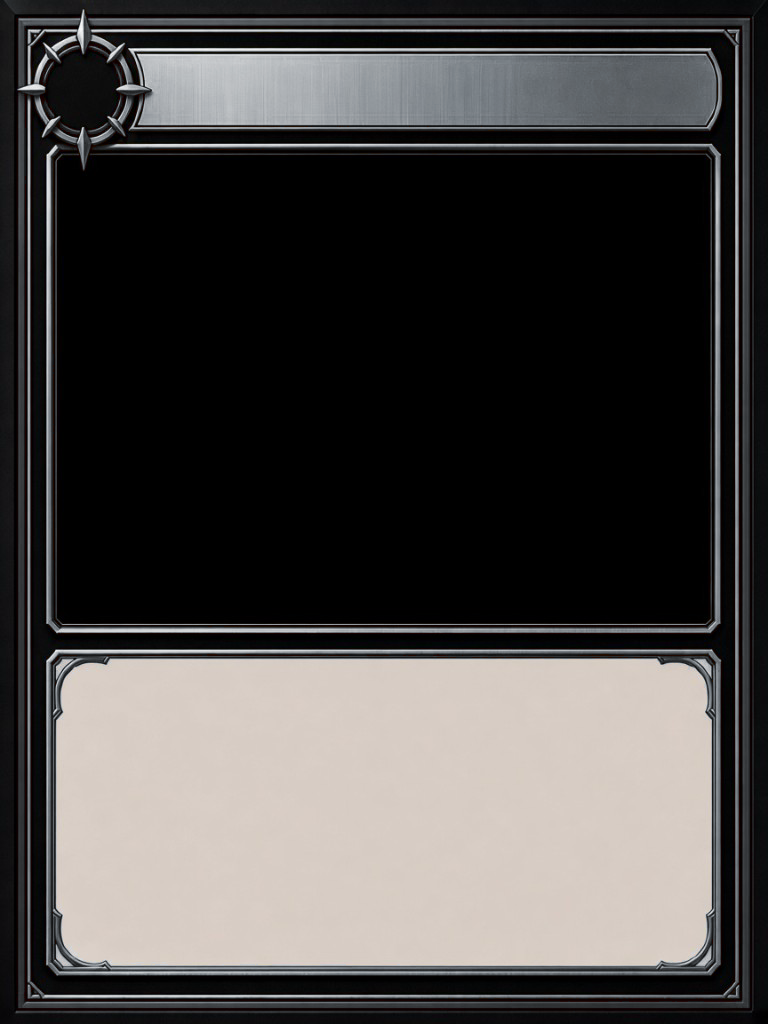
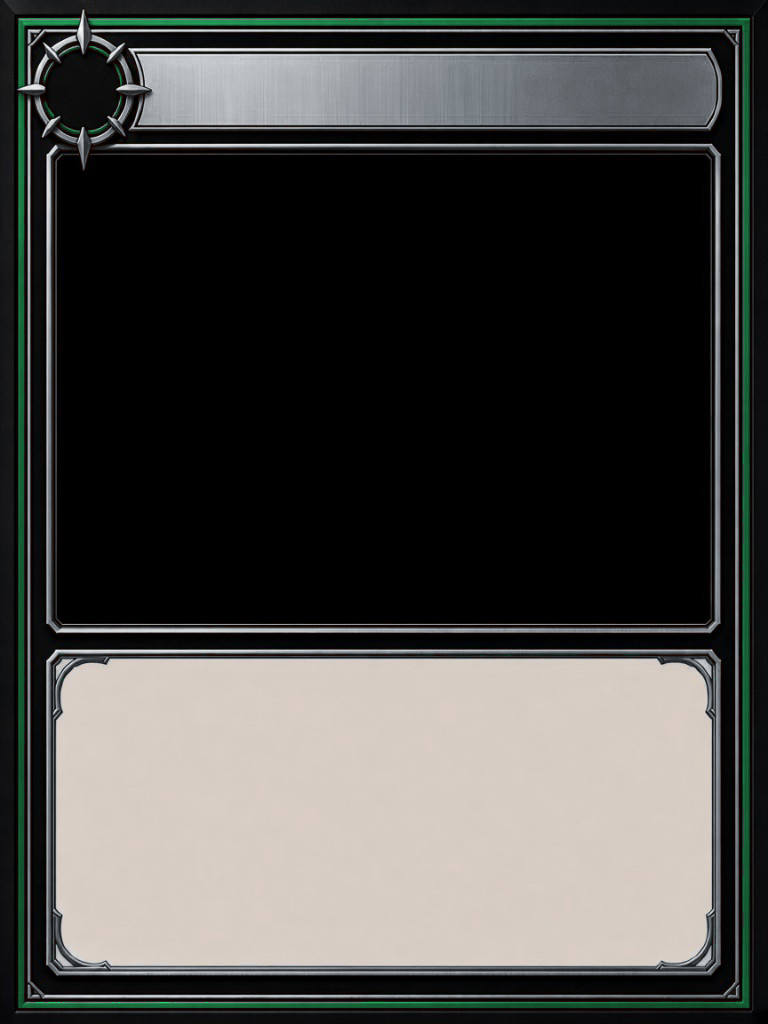
Restore the previous card styles.

Changed region(s): [[0.0, 0.0, 1.0, 1.0]]

diff --git a/index.html b/index.html
@@ -3582,9 +3582,9 @@
       background: var(--frame-img) center / 100% 100% no-repeat;
     }
     .card .card-fit .frame::before, .card .card-fit .frame::after { content: none; }
-    .card .card-fit.r1 { --frame-img: url("frame-star1.png?v=8"); }
-    .card .card-fit.r2 { --frame-img: url("frame-star2.png?v=8"); }
-    .card .card-fit.r3 { --frame-img: url("frame-star3-attack.png?v=8"); }
+    .card .card-fit.r1 { --frame-img: url("frame-star1.png?v=9"); }
+    .card .card-fit.r2 { --frame-img: url("frame-star2.png?v=9"); }
+    .card .card-fit.r3 { --frame-img: url("frame-star3-attack.png?v=9"); }
     .card .card-fit.k-attack.rboss { --frame-img: url("frame-attack-boss.png?v=3"); }
     .card .card-fit.k-block.rboss { --frame-img: url("frame-block-boss.png?v=3"); }
     .card .card-fit.k-skill.rboss { --frame-img: url("frame-skill-boss.png?v=3"); }
@@ -10224,21 +10224,13 @@
     }
 
     const CARD_STYLE = [
-      ["style-star1", "★ 銅", "frame-star1.png?v=8"],
-      ["style-star2", "★★ 銀", "frame-star2.png?v=8"],
-      ["style-star3", "★★★ 金", "frame-star3-attack.png?v=8"],
-      ["style-leg-red-1", "レジェンド赤 銅", "frame-leg-red-1.png?v=1"],
-      ["style-leg-red-2", "レジェンド赤 銀", "frame-leg-red-2.png?v=1"],
-      ["style-leg-red-3", "レジェンド赤 金", "frame-leg-red-3.png?v=1"],
-      ["style-leg-blue-1", "レジェンド青 銅", "frame-leg-blue-1.png?v=1"],
-      ["style-leg-blue-2", "レジェンド青 銀", "frame-leg-blue-2.png?v=1"],
-      ["style-leg-blue-3", "レジェンド青 金", "frame-leg-blue-3.png?v=1"],
-      ["style-leg-yellow-1", "レジェンド黄 銅", "frame-leg-yellow-1.png?v=1"],
-      ["style-leg-yellow-2", "レジェンド黄 銀", "frame-leg-yellow-2.png?v=1"],
-      ["style-leg-yellow-3", "レジェンド黄 金", "frame-leg-yellow-3.png?v=1"],
-      ["style-leg-green-1", "レジェンド緑 銅", "frame-leg-green-1.png?v=1"],
-      ["style-leg-green-2", "レジェンド緑 銀", "frame-leg-green-2.png?v=1"],
-      ["style-leg-green-3", "レジェンド緑 金", "frame-leg-green-3.png?v=1"],
+      ["style-star1", "★ 銅", "frame-star1.png?v=9"],
+      ["style-star2", "★★ 銀", "frame-star2.png?v=9"],
+      ["style-star3", "★★★ 金", "frame-star3-attack.png?v=9"],
+      ["style-red", "差し色 赤", "frame-metal-red.png?v=2"],
+      ["style-blue", "差し色 青", "frame-metal-blue.png?v=2"],
+      ["style-green", "差し色 緑", "frame-metal-green.png?v=2"],
+      ["style-yellow", "差し色 黄", "frame-metal-yellow.png?v=2"],
     ];
     const ALBUM_FACE = [
       ["back-player", "裏面", "card-back.jpg?v=3"],
